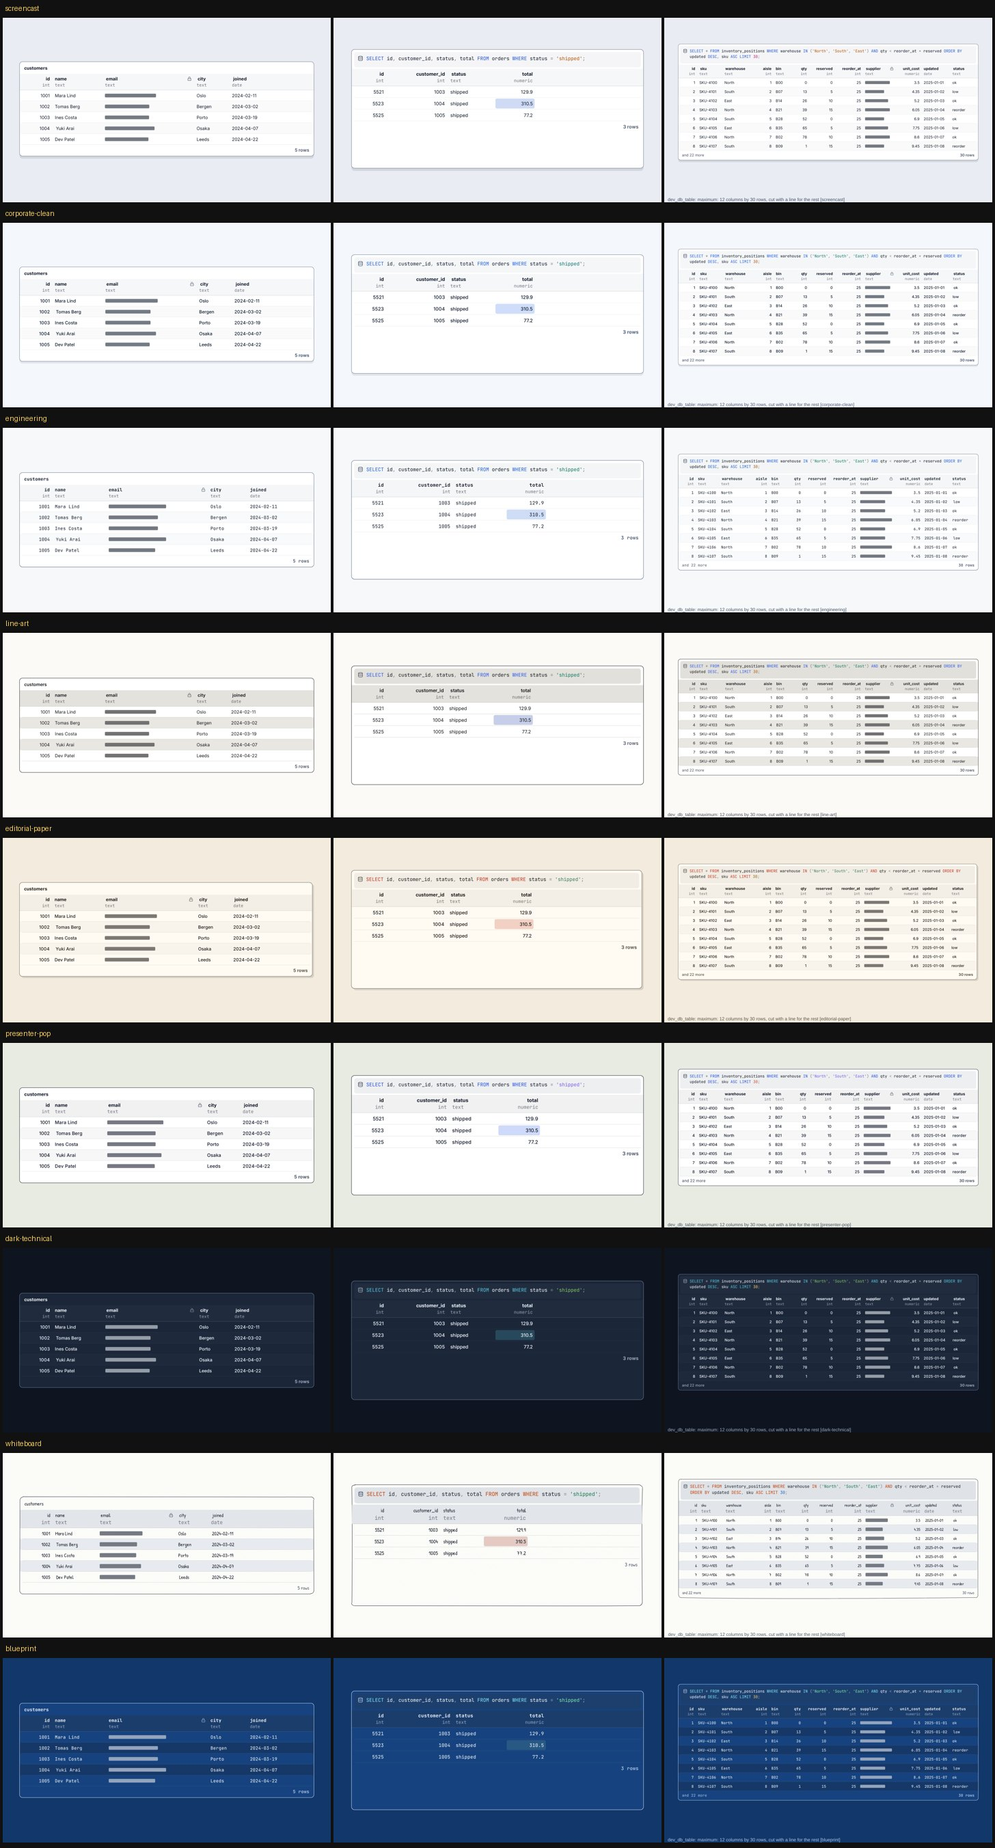
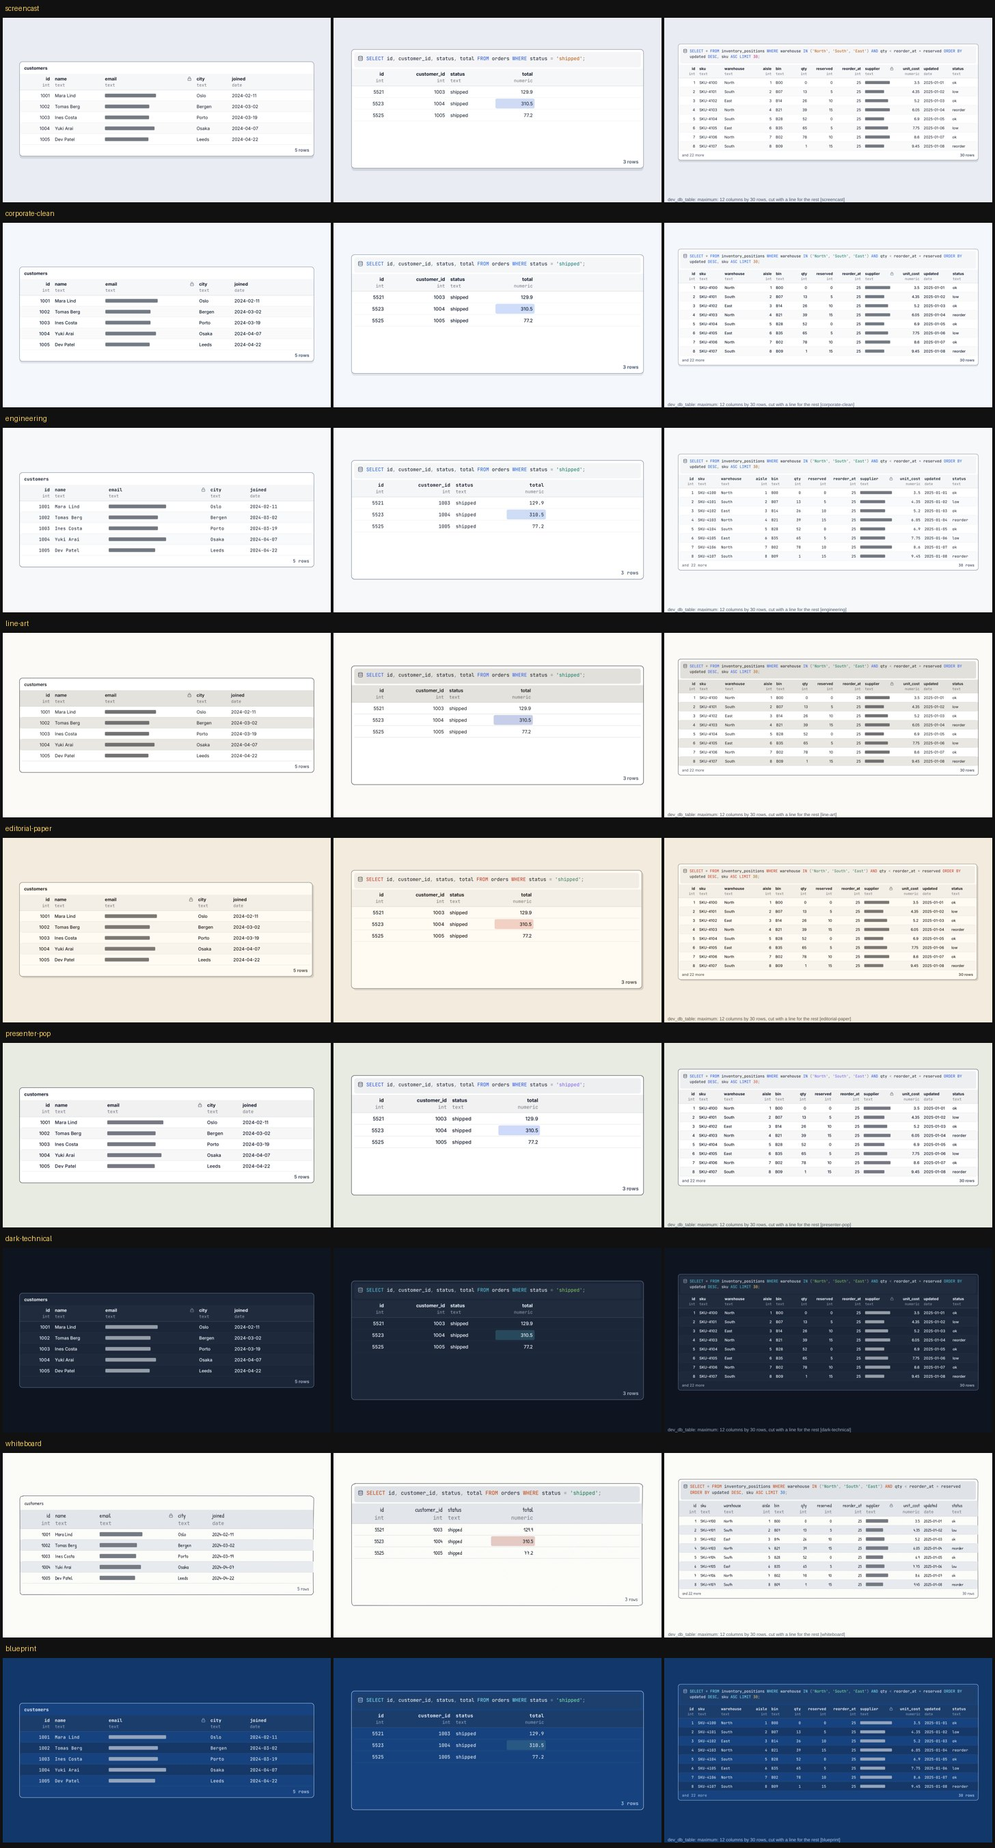
Batch-03 quality pass: the Family A dev components looked at again, case by case
Every case of the seven batch-03 items was reviewed at full size in six styles and the defects fixed:
- db table: column words whose first letter hangs left now keep the column's edge (DK.textL); a filter
  keeps the row count at the pane's foot; whiteboard header names a size up where the hand has no bold;
- CI pipeline: a job name that fit its box exactly lost its last word ("fetch..."); the line count is
  measured 6 px narrower so it wraps instead; icon and name margins evened out;
- HTTP exchange: side by side, each card hugs its own content;
- code editor: status items set apart one by one; git graph: lanes take distinct tones;
- diff view: the first case shows 13 rows so its hunk is not cut;
- the shared kit: rounded-bottom window bodies, DK.warnTok, DK.tones, DK.para (a clamped paragraph
  that never re-wraps), low-saturation syntax defaults fall back to the text colour, and stills in the
  whiteboard and blueprint engines are lettered at a pace the engines' window checks accept;
- the HTTP fixture's organisation renamed to a generic one.

All seven pass `library accept` (exit 0) and their engine strips render with 0 errors; BATCH.md (with
batch 04) records the results.

Claude-Session: https://claude.ai/code/session_014AwiEYjgRYq6TBoMvUiBXK

diff --git a/runtime/components/_dev_kit.js b/runtime/components/_dev_kit.js
@@ -60,7 +60,40 @@
   };
   /** the warning tone: accent2 (measures and warnings, the contract), except in screencast, where accent2 is the
    *  teaching layer's signal and the product's own warning is accent4 (the engine's terminal colours it so) */
-  DK.warnTok = () => ((S().pack && S().pack.id) === "screencast" ? "accent4" : "accent2");
+  // which accent reads as a warning differs per pack (whiteboard's accent2 is a blue): the one closest to amber, never
+  // the success or failure tone; in screencast accent2 is the teaching layer's signal, so the product's accent4
+  const hueOf = (hex) => {
+    const h = String(hex).replace("#", ""), r = parseInt(h.slice(0, 2), 16) / 255, g = parseInt(h.slice(2, 4), 16) / 255, b = parseInt(h.slice(4, 6), 16) / 255;
+    const mx = Math.max(r, g, b), mn = Math.min(r, g, b), d = mx - mn;
+    if (!d) return { h: 0, s: 0 };
+    const hh = mx === r ? ((g - b) / d) % 6 : mx === g ? (b - r) / d + 2 : (r - g) / d + 4;
+    return { h: (hh * 60 + 360) % 360, s: d / (1 - Math.abs(mx + mn - 1) || 1) };
+  };
+  const warnCache = {};
+  DK.warnTok = function () {
+    const pk = S().pack || {}, id = pk.id || "";
+    if (id === "screencast") return "accent4";
+    if (warnCache[id]) return warnCache[id];
+    const pal = pk.palette || {}, avoid = [pal.pos, pal.neg].map((x) => String(x || "").toLowerCase());
+    const cands = ["accent2", "accent4", "accent", "accent3"].filter((t) => t in pal && !avoid.includes(String(pal[t]).toLowerCase()));
+    const dist = (t) => { const q = hueOf(pal[t]); const dh = Math.min(Math.abs(q.h - 38), 360 - Math.abs(q.h - 38)); return dh + (q.s < 0.35 ? 90 : 0); };
+    warnCache[id] = cands.sort((a, b) => dist(a) - dist(b))[0] || "accent2";
+    return warnCache[id];
+  };
+  /** tokens for categories (lanes, segments, phases) that look distinct in this pack: packs give the same colour to
+   *  two tokens (pos and accent4, neg and accent3), so a list that repeats a hex would give two lanes one colour */
+  DK.tones = function (n) {
+    const pal = (S().pack || {}).palette || {}, out = [], seen = [];
+    const close = (a, b) => { const A = hueOf(a), B = hueOf(b); return Math.min(Math.abs(A.h - B.h), 360 - Math.abs(A.h - B.h)) < 14 && Math.abs(A.s - B.s) < 0.25; };
+    for (const t of ["accent", "accent3", "pos", DK.warnTok(), "accent2", "accent4", "neg"]) {
+      if (!(t in pal) || out.includes(t)) continue;
+      const hex = String(pal[t]).toLowerCase();
+      if (seen.some((h) => h === hex || close(h, hex))) continue;
+      out.push(t); seen.push(hex);
+    }
+    out.push("muted");
+    return n ? Array.from({ length: n }, (_, i) => out[i % out.length]) : out;
+  };
   /** the body of a code surface. scheme: "dark" (the pack's darkest neutral), "light" (surface) or "pack" (surface2).
    *  In the outlined styles (line, sketch) a solid dark block would bury the line work, so every scheme is the pack's. */
   DK.scheme = function (scheme) {
@@ -100,13 +133,15 @@
   };
 
   /** one line of left-aligned UI text whose first glyph may hang left of its origin: when it does, the box hugs the word
-   *  and the word is centred in it, so the overhang stays inside the box (the text checks measure the drawn glyphs) */
+   *  and the word is centred in it, so the overhang stays inside the box (the text checks measure the drawn glyphs). The
+   *  box starts hang + 3 left of x so the word's origin stays at x: a column of words keeps one left edge whatever their
+   *  first letters (it had drifted right by the hang, "Tomas" and "Yuki" sat in from "Mara" in dev_db_table) */
   DK.textL = function (g, str, o) {
     const role = o.role || "caption", size = o.size, wt = o.weight || 400, s = String(str);
     const hang = DK.leftHang(s, role, size, wt) + 1;
     const adv = AK().measure(s, role, size, wt);
     if (hang <= 1 || adv + 2 * hang + 6 > o.w) return AK().T(g, s, o);
-    return AK().T(g, s, Object.assign({}, o, { w: adv + 2 * hang + 6, x: o.x, align: "center" }));
+    return AK().T(g, s, Object.assign({}, o, { w: adv + 2 * hang + 6, x: (o.x || 0) - hang - 3, align: "center" }));
   };
 
   // ------------------------------------------------------------------ the tokenizer
@@ -202,6 +237,9 @@
       const t = tok in pal ? tok : DK.SYN_DEFAULT[k] || "ink";
       if (!(tok in pal)) Loom.error("component_params", `colors.${k} = "${tok}" is not a style token`);
       out[k] = t === "ink" ? text : t === "muted" ? DK.legible(S().mix(text, bg, 0.42), bg, text, 3.2) : DK.legible(t, bg, text);
+      // a default colour that is nearly grey in this pack (corporate-clean's accent3) would read as faded, like
+      // punctuation: function names and flags then take the text colour
+      if (!(colors && colors[k]) && (k === "fn" || k === "flag" || k === "attr") && hueOf(pal[t] || "#000000").s < 0.3) out[k] = text;
     }
     return out;
   };
@@ -224,7 +262,8 @@
     if (!P) {
       // the kit draws the frame in the pack's shape language (sketch, line, toon, gloss...), then the body and the bar
       K().rect(fg, 0, 0, w, h, { fill: "surface", r: R, stroke: "line", sw: 1.5, shadow: true });
-      if (!outlined) svg("rect", { x: 1, y: barH, width: w - 2, height: h - barH - 1, rx: 0, fill: o.bodyFill || S().c("surface") }, fg);
+      // the body follows the frame's rounded bottom corners (a square body poked out of them on a dark terminal)
+      if (!outlined) svg("path", { d: `M1 ${barH} L${w - 1} ${barH} L${w - 1} ${h - R} Q${w - 1} ${h - 1} ${w - R} ${h - 1} L${R} ${h - 1} Q1 ${h - 1} 1 ${h - R} Z`, fill: o.bodyFill || S().c("surface") }, fg);
       if (!outlined) svg("path", { d: `M1 ${barH} L1 ${R} Q1 1 ${R} 1 L${w - R} 1 Q${w - 1} 1 ${w - 1} ${R} L${w - 1} ${barH} Z`, fill: o.barFill || S().mix(S().c("surface2"), S().c("field2"), 0.5) }, fg);
       if (!outlined && o.bodyFill) svg("path", { d: `M1 ${h - R} Q1 ${h - 1} ${R} ${h - 1} L${w - R} ${h - 1} Q${w - 1} ${h - 1} ${w - 1} ${h - R} L${w - 1} ${barH} L1 ${barH} Z`, fill: o.bodyFill }, fg);
       if (outlined) K().line(fg, 0, barH, w, barH, { stroke: "line", sw: 1.5 });
@@ -271,16 +310,20 @@
         let bx = o.x || 0, bw = o.w, bh = o.h, ml = o.maxLines || 1;
         const fits = (w, h, m) => { try { return o.eng.W.text(String(str), { x: 0, y: 0, w, h, role, maxLines: m }).fits; } catch (e) { return true; } };
         const room = o.room == null ? 0 : o.room;   // extra width only where the caller says the row has it
-        const tries = [[o.w, o.h, ml], [o.w + room, o.h, ml], [o.w, Math.max(o.h, o.h * 1.9), 2], [o.w + room, Math.max(o.h, o.h * 1.9), 2]];
+        const tries = [[o.w, o.h, ml], [o.w + room, o.h, ml], [o.w, Math.max(o.h, o.h * 1.9), Math.max(2, ml)], [o.w + room, Math.max(o.h, o.h * 1.9), Math.max(2, ml)],
+          [o.w, o.h * (ml + 1) / ml + 4, ml + 1], [o.w, o.h * (ml + 2) / ml + 8, ml + 2]];
         for (const [w, h, m] of tries) { if (fits(w, h, m)) { bw = w; bh = h; ml = m; break; } }
         if (bw > o.w && o.align === "right") bx -= bw - o.w;
-        if (bh > o.h) Loom.warn("dev_engine_box", `"${String(str).slice(0, 30)}" is lettered on two lines by the ${o.eng.id} engine (its hand is wider than the box)`);
+        if (bh > o.h + 1) Loom.warn("dev_engine_box", `"${String(str).slice(0, 30)}" is lettered on two lines by the ${o.eng.id} engine (its hand is wider than the box)`);
         const sub = ctx.el(`${E.name}.${o.name || "word"}`, { parent: o.parentG || E.inner, x: ox + bx, y: oy + (o.y || 0), w: bw, h: bh, kind: o.kind || "label" });
         // one hand (one pen): each word starts when the last one ended, never earlier than asked
         const at = Math.max(o.at != null && o.at >= 0 ? o.at : ctx.start || 0, P.free == null ? -1 : P.free + 0.05);
         const opt = { role, align: o.align || "left", valign: o.valign || "middle", maxLines: ml, at, pen: o.tone || "ink" };
         if (o.by != null) opt.by = o.by;
-        else if (!(o.at != null && o.at >= 0)) opt.dur = 0.12;
+        // a still: written quickly as the beat begins, but at a pace a hand can keep (about 22 characters a second, and
+        // never under 0.3 s: the engines' window checks ask 0.08 s x sqrt(strokes) for the hand, 0.06 s for the pen, and
+        // a 7-letter word at 0.03 s a letter sat just under, wb_window_tight on "gateway", 2026-10-16)
+        else if (!(o.at != null && o.at >= 0)) opt.dur = Math.max(0.3, String(str).length * 0.045);
         if (P.kind === "bp") opt.quick = true;
         const end = P.kind === "wb" ? P.B.write(sub, String(str), opt) : P.D.letter(sub, String(str), opt);
         P.free = Math.max(P.free == null ? -1 : P.free, end);
@@ -288,8 +331,10 @@
       } catch (e) { Loom.warn("dev_engine", `"${String(str).slice(0, 30)}" not written by the engine (${e && e.message}); set with the kit`); }
     }
     const t = o.maxLines > 1
-      ? AK().P(g, str, { x: o.x, y: o.y, w: o.w, size: o.size, weight: o.weight, color: o.color || "ink", fill: o.fill, align: o.align, role: o.role || "caption", maxLines: o.maxLines })
+      ? DK.para(g, str, o)
       : AK().T(g, str, { x: o.x, y: o.y, w: o.w, h: o.h, size: o.size, weight: o.weight, color: o.color || "ink", fill: o.fill, align: o.align, role: o.role || "caption" });
+    // a word with no room at all is dropped by the kit (never cut to letters): say so, so a lost label is never silent
+    if (String(str).trim() && t && !(t.textContent || "").trim()) Loom.warn("dev_word_dropped", `"${String(str).slice(0, 40)}" has no room in its ${Math.round(o.w)} px box and is not drawn (widen the component or shorten it)`);
     if (t && o.at != null && o.at >= 0) AK().show(t, o.at, 0.25);
     return t;
   };
@@ -306,6 +351,37 @@
       pen.free = Math.max(pen.free == null ? -1 : pen.free, end);
       return end;
     } catch (e) { Loom.warn("dev_engine", `not drawn by the engine (${e && e.message}); drawn with the kit`); return null; }
+  };
+
+  /** fade out a word DK.word drew (a kit <text>, or the element the engine wrote it in) at t */
+  DK.fadeOut = function (w, t, dur) {
+    if (!w) return t;
+    const node = w.el ? w.el.inner : w.nodeType ? w : null;
+    if (!node) return t;
+    Loom.tween(node, { opacity: 1 }, { opacity: 0, duration: dur || 0.2 }, t, DK.meta("state", "dev.word"));
+    return t + (dur || 0.2);
+  };
+  /** a value that changes: the old word leaves and the new one is written (by the engine) or fades in (the kit) at t.
+   *  holder: {w} as returned by DK.word; o as for DK.word. Returns the new word. */
+  DK.swapWord = function (ctx, g, holder, str, o, t) {
+    DK.fadeOut(holder.w, t);
+    const nw = DK.word(ctx, g, str, Object.assign({}, o, { at: t + 0.15, name: (o.name || "word") + "_" + Math.round(t * 100) }));
+    holder.w = nw;
+    return nw;
+  };
+
+  /** a clamped paragraph drawn line by line: the lines appKit.clampText chose, each set on its own (one wrap, so the
+   *  ellipsised last line can never re-wrap to one line more). Returns a <g> standing for the paragraph. */
+  DK.para = function (g, str, o) {
+    const role = o.role || "caption", size = o.size || S().size(role, 21), wt = o.weight || 400;
+    const c = AK().clampText(String(str), { role, size, w: o.w, maxLines: o.maxLines || 3, weight: wt });
+    const pg = Loom.svg("g", {}, g), lh = size * 1.36;
+    c.lines.forEach((ln, i) => {
+      const t = K().text(pg, ln, { role, size, x: o.x || 0, y: (o.y || 0) + i * lh, w: o.w, h: AK().lineH(size, role, wt), maxLines: 1, valign: "top", align: o.align || "left", weight: wt, color: o.color || "ink" });
+      if (o.fill) t.setAttribute("fill", o.fill);
+    });
+    pg.__h = c.h; pg.__cut = c.cut;
+    return pg;
   };
 
   // ------------------------------------------------------------------ code lines

diff --git a/runtime/components/dev_db_table.js b/runtime/components/dev_db_table.js
@@ -62,7 +62,7 @@ Loom.component("dev_db_table", {
     svg("rect", { x: 1, y: f1(y0 + L.headH - 1), width: p.w - 2, height: 1.5, fill: SC.rule }, hg);
     L.cols.forEach((c, ci) => {
       const cg = svg("g", {}, hg);
-      const nm = (c.num ? AK.T : DK.textL)(cg, c.name, { x: c.x + 12, y: y0 + 8, w: c.w - 24, h: L.lh, size: Z.fs, weight: 700, align: c.num ? "right" : "left" });
+      const nm = (c.num ? AK.T : DK.textL)(cg, c.name, { x: c.x + 12, y: y0 + 8, w: c.w - 24, h: L.lh, size: L.nameSize, weight: 700, align: c.num ? "right" : "left" });
       const ty = c.type ? AK.mono(cg, [[c.type, SC.muted]], { x: c.num ? c.x + c.w - 12 - c.type.length * AK.monoW(Z.small) : c.x + 12, y: y0 + 8 + L.lh, h: L.lhS, size: Z.small, w: c.w - 24 }) : null;
       parts.header.push({ g: cg, name: nm, type: ty });
     });
@@ -114,7 +114,8 @@ Loom.component("dev_db_table", {
         if (off) { R.dy = -off; AK.shift(R.wrap, 0, -off, at + 0.25, 0.35); }
         if (!R.kept) off += L.rowH;
       });
-      if (off) AK.shift(fg, 0, -off, at + 0.25, 0.35);
+      // the count stays at the pane's foot: a filtered result is the same pane with fewer rows (it had slid up with them and
+      // left an empty frame below it, 2026-10-16 review)
       if (parts.count && p.countLabel) {
         const n = parts.rowsG.filter((R) => R.kept).length;
         const nt = AK.T(fg, fill(p.countLabel, n), { x: p.w * 0.6, y: fy, w: p.w * 0.4 - 22, h: L.footH, size: Z.fs, color: "muted", align: "right", weight: 600 });
@@ -174,18 +175,22 @@ Loom.devKit.dbLayout = function (p) {
   // the query wraps to at most 4 rows at the bar's width, tokenized as one line so its colours carry
   const qCols = DK.cols(p.w - 66 - 28, CS);
   const qRows = p.query ? DK.wrapRuns(p.query, "sql", { plain: "plain", keyword: "keyword", string: "string", number: "number", comment: "comment", fn: "fn", punct: "punct", type: "type", key: "key", flag: "flag" }, qCols).slice(0, 4) : [];
-  const lh = AK.lineH(Z.fs, "caption", 700), lhS = AK.lineH(Z.small, "mono");
+  // the column names lead their mono types: where the caption face has no bold (whiteboard's hand), a size up instead
+  const S = Loom.style, capF = S.font("caption"), capMax = ((S.pack.type || {}).caption || [0, Z.fs])[1];
+  const boldless = S.loadedWeight && S.loadedWeight(capF.family, 700) < 600;
+  const nameSize = boldless ? Math.max(Z.fs, Math.min(capMax, Math.round(Z.fs * 1.14))) : Z.fs;
+  const lh = AK.lineH(nameSize, "caption", 700), lhC = AK.lineH(Z.fs, "caption", 700), lhS = AK.lineH(Z.small, "mono");
   const qH = p.query ? 12 + 24 + qRows.length * qLH + 12 : (p.title ? lh + 22 : 12);
   const hasTypes = cols0.some((c) => c.type);
-  const headH = 8 + lh + (hasTypes ? lhS : 0) + 10, rowH = Math.max(lh + 18, 52), footH = Math.max(lh + 16, 50);
+  const headH = 8 + lh + (hasTypes ? lhS : 0) + 10, rowH = Math.max(lhC + 18, 52), footH = Math.max(lhC + 16, 50);
   // column widths: as wide as their widest word (sampled rows and the header), scaled to fit w
   const num = cols0.map((_, ci) => rows.slice(0, nShow).every((r) => r[ci] == null || r[ci] === "" || /^[-+]?[\d.,]+%?$/.test(String(r[ci]))));
-  const want = cols0.map((c, ci) => Math.max(90, AK.measure(c.name, "caption", Z.fs, 700) + 42 + (num[ci] ? 0 : 24), c.type ? c.type.length * AK.monoW(Z.small) + 30 : 0,
+  const want = cols0.map((c, ci) => Math.max(90, AK.measure(c.name, "caption", nameSize, 700) + 42 + (num[ci] ? 0 : 24), c.type ? c.type.length * AK.monoW(Z.small) + 30 : 0,
     ...rows.slice(0, nShow).map((r) => (r[ci] == null ? 0 : Math.min(420, AK.measure(String(r[ci]), "caption", Z.fs, 400) + 30)))));
   const avail = p.w - 24, sum = want.reduce((a, b) => a + b, 0) || 1, k = Math.min(1.6, avail / sum);
   let x = 12;
   const cols = cols0.map((c, ci) => { const w = Math.floor(want[ci] * k); const C = Object.assign({}, c, { x, w, num: num[ci] }); x += w; return C; });
   const top = qH + 6;
   const h = top + headH + nShow * rowH + ((total > nShow) || p.countLabel ? footH : 12) + 4;
-  return { Z, CS, qLH, qRows, qH, lh, lhS, headH, rowH, footH, cols, rows, nShow, total, top, size: { w: p.w, h } };
+  return { Z, CS, qLH, qRows, qH, lh, lhS, nameSize, headH, rowH, footH, cols, rows, nShow, total, top, size: { w: p.w, h } };
 };

diff --git a/runtime/components/dev_ci_pipeline.js b/runtime/components/dev_ci_pipeline.js
@@ -62,7 +62,7 @@ Loom.component("dev_ci_pipeline", {
     // ---- stage names, job rows
     L.stages.forEach((s, si) => {
       const b = L.boxes[si], st = parts.stages[si];
-      st.name = DK.word(ctx, wordG, s.name, { x: b.x + 18, y: b.y, w: b.w - 18 - 50, h: L.headH, size: Z.fs, weight: 700, at: animated ? t0 + si * 0.06 : -1, eng, pen, name: `stage_${si}`, kind: "label" });
+      st.name = DK.word(ctx, wordG, s.name, { x: b.x + 14, y: b.y, w: b.w - 14 - 44, h: L.headH, size: Z.fs, weight: 700, at: animated ? t0 + si * 0.06 : -1, eng, pen, name: `stage_${si}`, kind: "label" });
       const ig = svg("g", {}, wordG);
       st.iconG = ig; st.icons = {};
       parts.jobs.push(s.jobs.map((j, ji) => {
@@ -80,7 +80,7 @@ Loom.component("dev_ci_pipeline", {
       const agg = (arr) => (arr.some((x) => x === "failed" || x === "error") ? "failed" : arr.some((x) => x === "running") ? "running" : arr.every((x) => x === "skipped") ? "skipped"
         : arr.every((x) => x === "blocked") ? "blocked" : arr.every((x) => x === "pending") ? "pending" : arr.some((x) => x === "pending" || x === "blocked") ? "running" : arr.some((x) => x === "warning") ? "warning" : "passed");
       st.agg = () => agg(nowState[si]);
-      st.iconFor = (state) => { if (!st.icons[state]) { st.icons[state] = DK.stateIcon(ig, state, b.x + b.w - 30, b.y + L.headH / 2, 30); st.icons[state].setAttribute("opacity", 0); } return st.icons[state]; };
+      st.iconFor = (state) => { if (!st.icons[state]) { st.icons[state] = DK.stateIcon(ig, state, b.x + b.w - 24, b.y + L.headH / 2, 28); st.icons[state].setAttribute("opacity", 0); } return st.icons[state]; };
       st.shown = st.agg(); st.iconFor(st.shown).setAttribute("opacity", 1);
       if (animated) AK.show(ig, t0 + si * 0.06, 0.25);
     });
@@ -201,7 +201,10 @@ Loom.devKit.ciLayout = function (p) {
     const b = boxes[si], x = b.x + 12, y = b.y + headH + 10 + ji * rowH, w = b.w - 24;
     const R = { x, y, w, nameW: w - 40, durX: x + 38, durY: y, durW: w - 40, durH: rowH, durAlign: "right" };
     if (two) {
-      const nl = 38 + nameWOf(stages[si].jobs[ji]) > w - 4 ? nameLines : 1, nh = nl > 1 ? Math.ceil((nl - 1) * Z.fs * 1.36 + lh) : lh;
+      // the lines this name really takes, measured with the wrap that draws it (in the engine styles, the hand is wider)
+      const nl = Math.min(nameLines, AK.clampText(stages[si].jobs[ji].name, { role: "caption", size: Z.fs, w: (w - 42 - 6) / engK, maxLines: nameLines }).n), nh = nl > 1 ? Math.ceil((nl - 1) * Z.fs * 1.36 + lh) : lh;
+      // the line count is measured 6 px narrower than the box: a one-line name drawn at exactly its box's width had lost
+      // its last word to the one-line drawer's own margin ("fetch..." in presenter-pop, 2026-10-16 review)
       R.nameW = w - 42; R.durY = y + 6 + nh; R.durH = lhS; R.durAlign = "left"; R.durX = x + 38; R.lines = nl; R.nameH0 = nh;
     }
     else { const dj = stages[si].jobs[ji], dw = durWOf(dj); R.nameW = w - 40 - (dw ? dw + 8 : 0); R.durX = x + w - dw - 4; R.durW = dw; }

diff --git a/runtime/components/dev_code_editor.js b/runtime/components/dev_code_editor.js
@@ -123,7 +123,16 @@ Loom.component("dev_code_editor", {
     if (p.status) {
       const sg = svg("g", {}, g), sy = H - stH;
       svg("rect", { x: 2, y: sy, width: W - 4, height: 1.5, fill: SC.rule }, sg);
-      parts.status = AK.T(sg, p.status, { x: 20, y: sy, w: W - 40, h: stH - 2, size: Z.small, color: "muted" });
+      // the status line's items (separated by two or more spaces in the param) set apart, as an editor's status bar
+      const items = String(p.status).split(/\s{2,}/).filter(Boolean);
+      let sx = 20;
+      parts.status = items.map((it) => {
+        const iw = Math.min(W - 20 - sx, AK.measure(it, "caption", Z.small, 400) + 6);
+        if (iw < 30) return null;
+        const t1 = AK.T(sg, it, { x: sx, y: sy, w: iw, h: stH - 2, size: Z.small, color: "muted" });
+        sx += iw + 34;
+        return t1;
+      }).filter(Boolean);
       if (animated) AK.show(sg, F.end, 0.3);
     }
 

diff --git a/runtime/components/dev_http_exchange.js b/runtime/components/dev_http_exchange.js
@@ -151,7 +151,8 @@ Loom.devKit.httpLayout = function (p) {
   const bq = bodyOf(p.request), bs = bodyOf(p.response);
   const hOf = (B, b) => 18 + badgeH + 14 + ((B && B.headers) || []).length * LH + (b.lines.length ? 6 + 8 + b.lines.length * LH + 8 : 0) + 22;
   const hq = hOf(p.request, bq), hs = hOf(p.response, bs);
-  const cards = side ? { req: { x: 0, y: 0, w: cw, h: Math.max(hq, hs) }, res: { x: cw + gap, y: 0, w: cw, h: Math.max(hq, hs) } }
+  // side by side, each card hugs its own content (top aligned, the arrow at the header's level)
+  const cards = side ? { req: { x: 0, y: 0, w: cw, h: hq }, res: { x: cw + gap, y: 0, w: cw, h: hs } }
     : { req: { x: 0, y: 0, w: cw, h: hq }, res: { x: 0, y: hq + gap, w: cw, h: hs } };
   const ay = 18 + badgeH / 2;
   const arrow = side ? { x1: cw + 14, y1: ay, x2: cw + gap - 14, y2: ay, lx: cw + 6, ly: ay - lhS - 10, lw: gap - 12 }

diff --git a/runtime/components/dev_git_graph.js b/runtime/components/dev_git_graph.js
@@ -33,7 +33,7 @@ Loom.component("dev_git_graph", {
     const animated = p.at != null && p.at >= 0;
     const eng = DK.engine(ctx, g, p), pen = DK.pen(ctx, eng);
     const outlined = S.outlined();
-    const TONES = ["accent", "accent3", "pos", DK.warnTok(), "accent4", "neg"];
+    const TONES = DK.tones();
     const field = S.c("field");
     const laneTok = {}, laneCol = {};
     L.branches.forEach((b, i) => { const t = b.tone && b.tone in S.pack.palette ? b.tone : TONES[i % TONES.length]; laneTok[b.id] = t; laneCol[b.id] = DK.legible(t, field, S.c("ink"), 3); });
